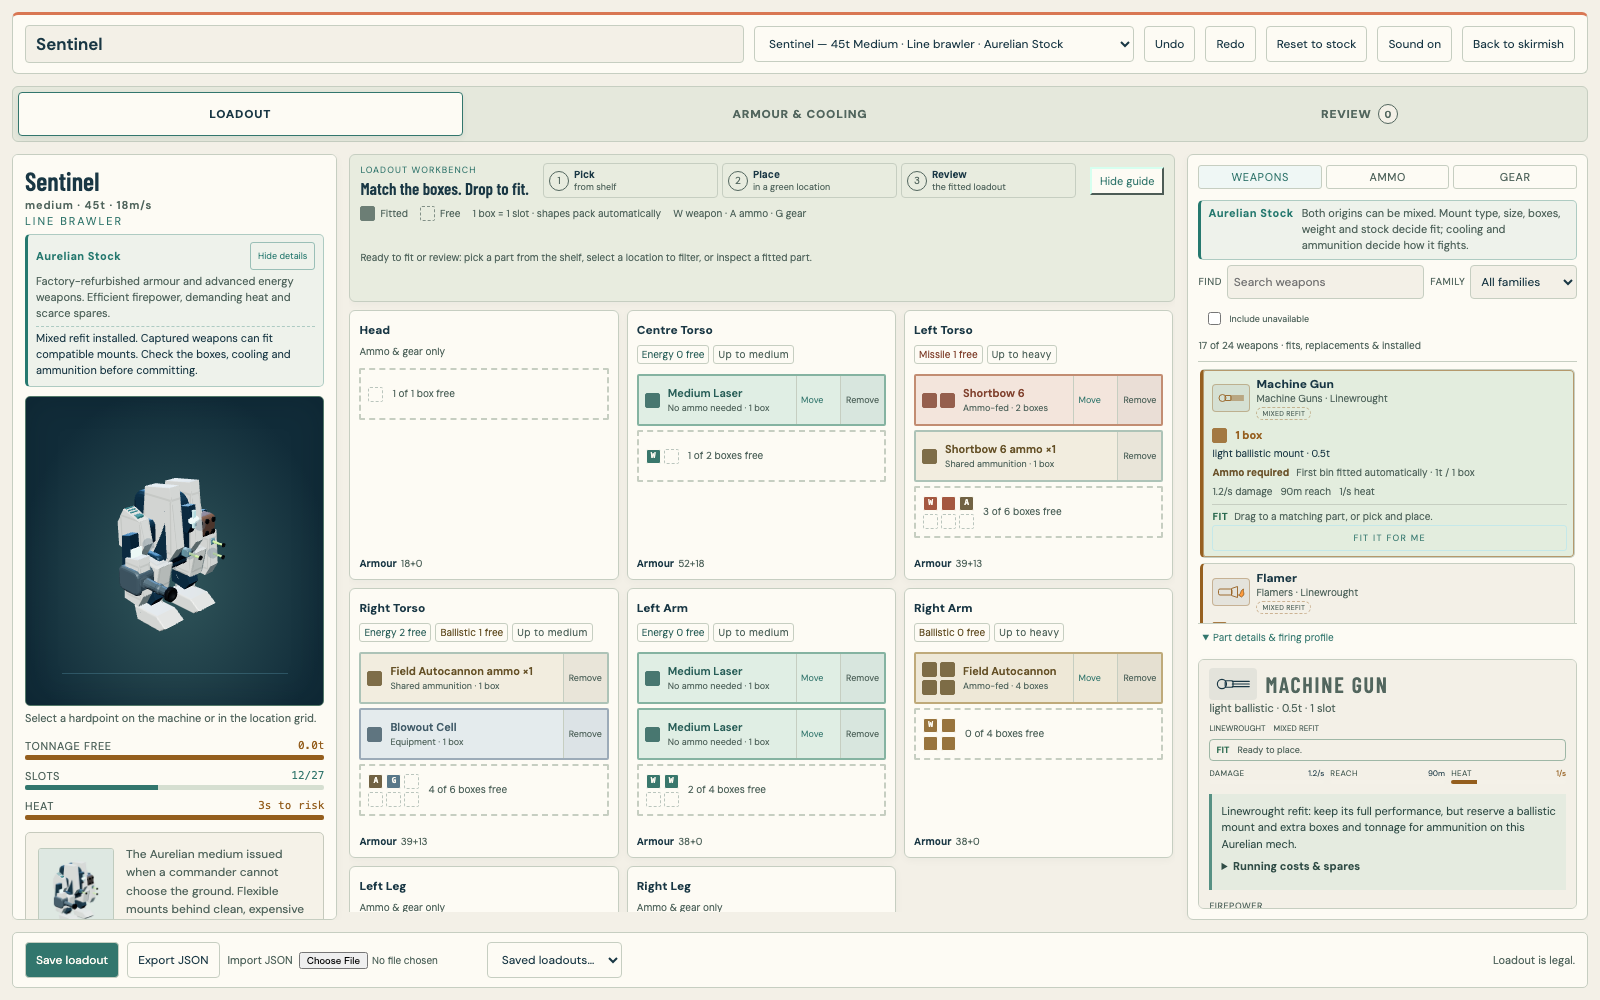
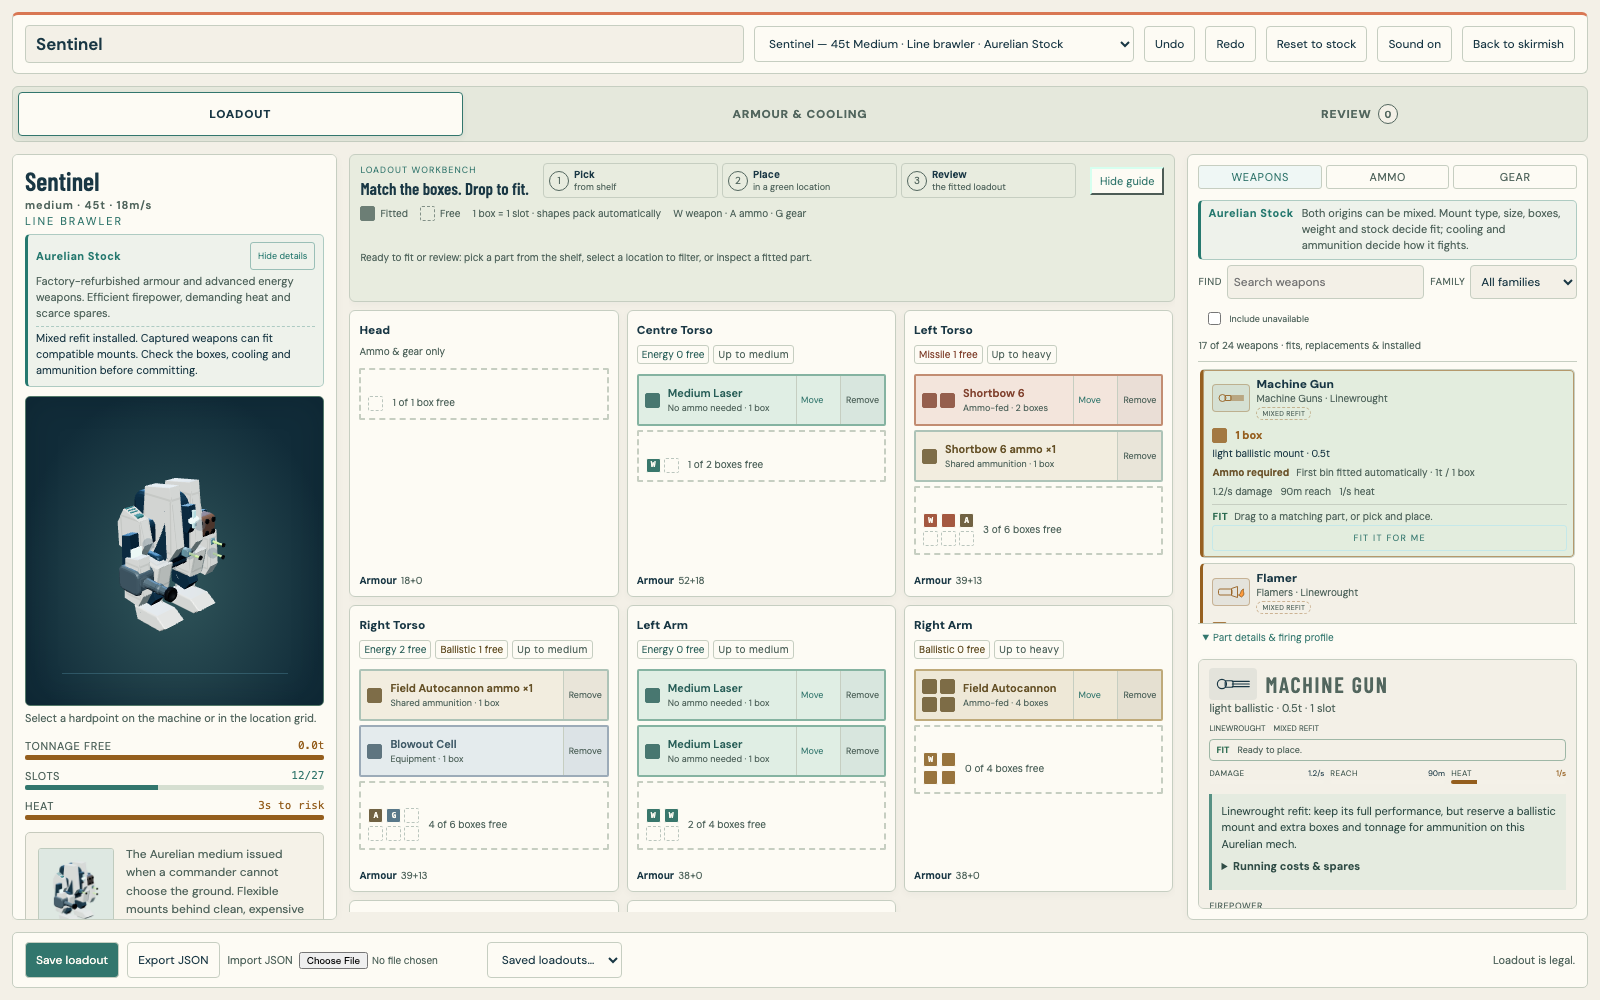
Keep weapon drop targets stable while dragging

Changed region(s): [[0.2188, 0.496, 0.75, 0.93], [0.4062, 0.434, 0.4688, 0.465], [0.25, 0.372, 0.2812, 0.403]]

diff --git a/src/ui/mechbay/visualFitting.css b/src/ui/mechbay/visualFitting.css
@@ -194,8 +194,8 @@
   column-gap: 9px;
   min-height: 52px;
 }
+/* Reserve the preview line so a rack cannot grow away from the pointer on pickup. */
 .bay-location .slot-block.empty .rack-drop-space { grid-column: 1 / -1; }
-.bay-location:not(.is-targeting) .slot-block.empty .rack-drop-space { display: none; }
 .bay.bay--workspace .bay-location .rack-free-count { height: auto; white-space: normal; }
 .bay.bay--workspace .slot-block:has(.slot-block__move) { grid-template-columns: minmax(0, 1fr) 44px 44px; }
 .bay.bay--workspace .slot-block__inspect {

diff --git a/docs/review/battlefield-visuals.md b/docs/review/battlefield-visuals.md
@@ -32,7 +32,7 @@ All 24 pilots now have authored combinations of face shape, expression, hairstyl
 
 ## Two-dimensional fitting
 
-Weapon size and every compartment's full capacity now use regular groups of square cells. Occupied cells distinguish weapons, ammunition and gear; outlined cells show free space, and the incoming footprint previews where a held item will consume it. The groups pack automatically: box count is the existing slot rule, so a legal fit does not gain an arbitrary rotation or shape requirement. Mount type, weapon size class, tonnage and available stock remain enforced.
+Weapon size and every compartment's full capacity now use regular groups of square cells. Occupied cells distinguish weapons, ammunition and gear; outlined cells show free space, and the incoming footprint previews where a held item will consume it. The preview has reserved space so drop targets stay fixed while dragging. The groups pack automatically: box count is the existing slot rule, so a legal fit does not gain an arbitrary rotation or shape requirement. Mount type, weapon size class, tonnage and available stock remain enforced.
 
 Installed weapons can now be dragged to another compatible compartment. This uses the same edit transaction as the keyboard/touch Move action and preserves the weapon count, ammunition and undo history. Incompatible drops leave the original build intact and explain the refusal. A rejected drop also preserves the shelf filter, so the source weapon remains available for another attempt. Shelf-to-compartment drag and saved custom configurations were tested with actual pointer movement and release.
 
@@ -77,6 +77,6 @@ Existing optional supply rewards remain. Stores explains equipment to earn and f
 - Mech review: **78 model views across 16 chassis**; motion review: **65 scripted rendering states**. These are presentation fixtures, not claims of campaign victories.
 - Final balance and campaign acceptance: **25 tests passed**.
 - Hosted and single-file release builds passed; the self-contained file is **3.62 MB**. Its final offline smoke test covered artwork/fonts, all 16 wiki dossiers, archive reload, workshop refit, contract acceptance and deployment with zero external requests or browser errors.
-- The complete browser harness includes the fitting, demo-supply, cold-loading and rendering resource regressions. Its final result is recorded in the pull request alongside CI.
+- Complete final browser playthrough: **1,092 of 1,092 checks passed**, including the fitting, demo-supply, cold-loading and rendering resource regressions, campaign journeys, skirmish setup, saves, and desktop/phone/tablet controls.
 
 Original player saves were not cleared or overwritten by tests. All browser work used isolated sessions; no native desktop takeover was required.
